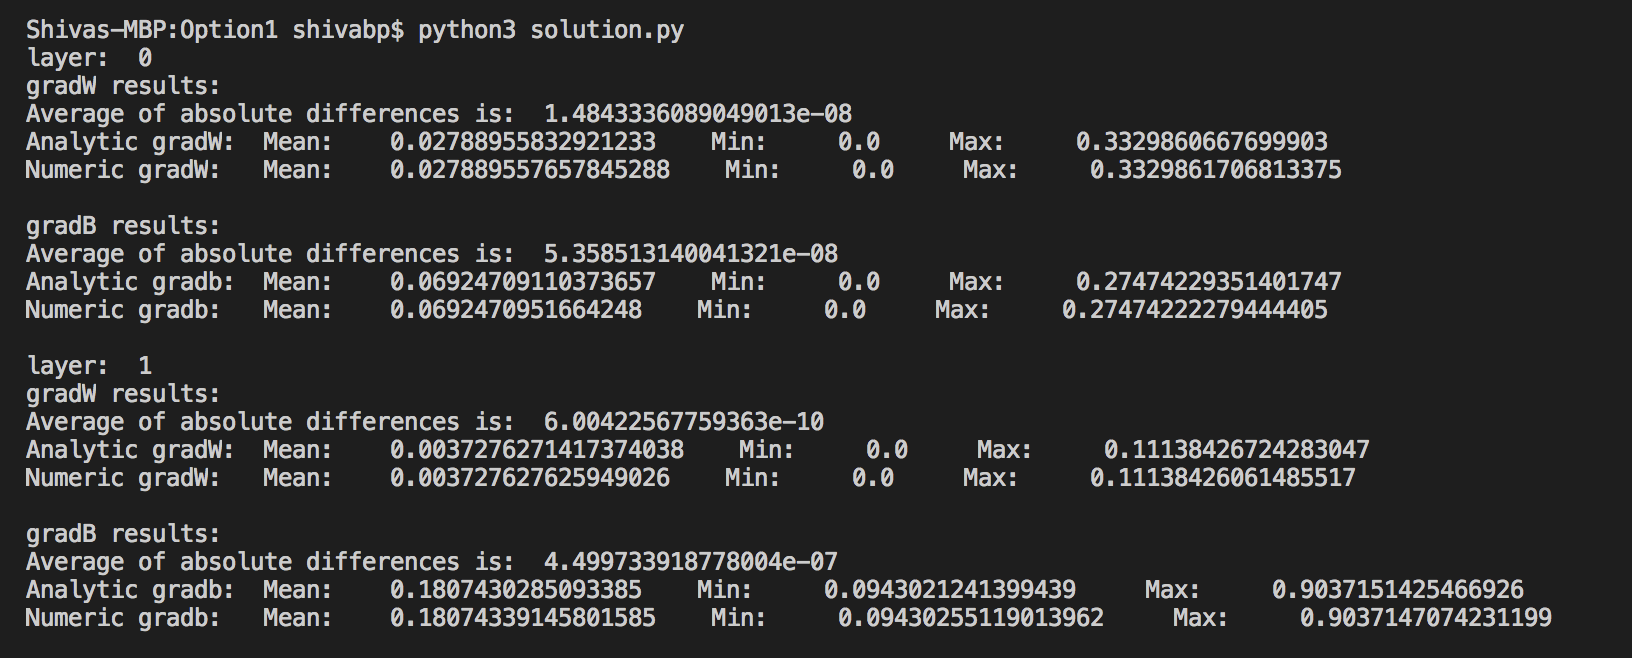
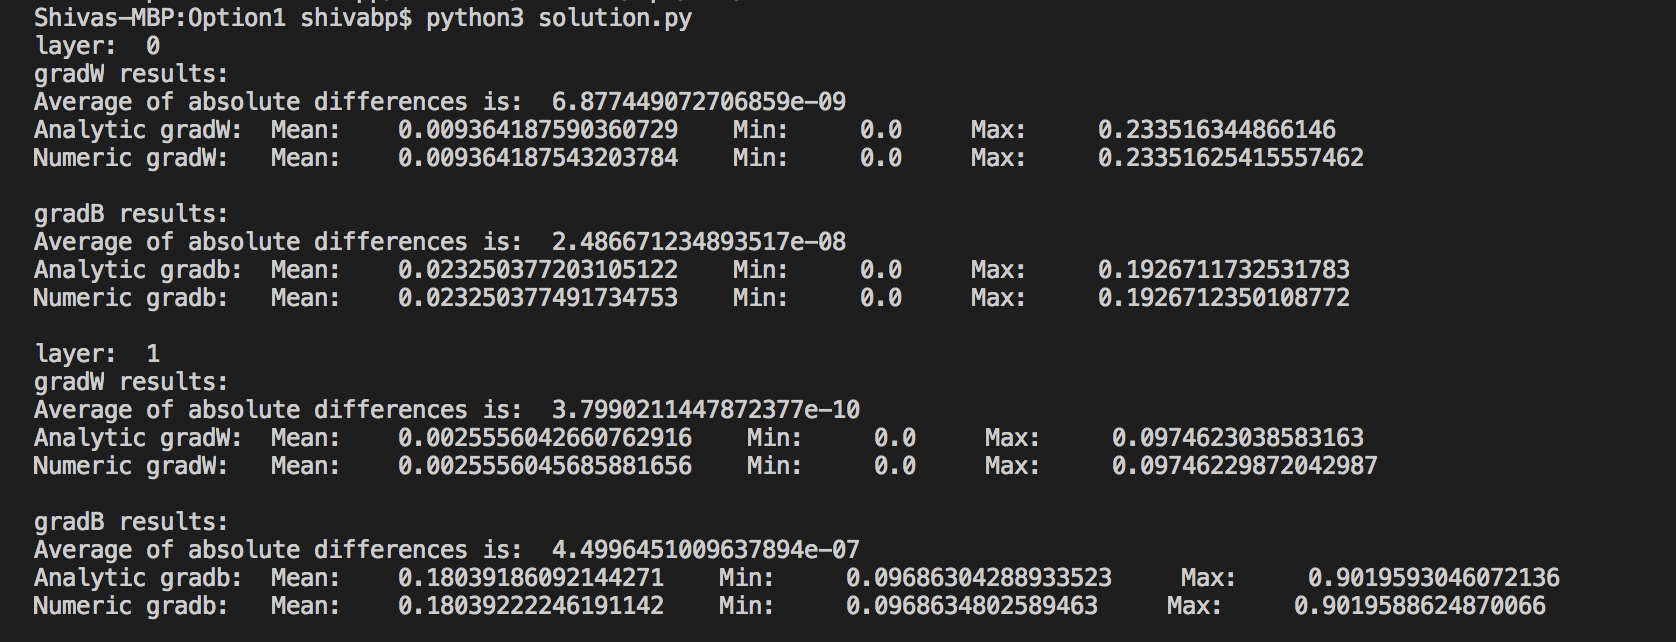
gradients fixed

diff --git a/Lab 3/Option1/solution.py b/Lab 3/Option1/solution.py
@@ -16,7 +16,7 @@ eta_max = 1e-1
 lamda = 0
 n_batch = 100
 n_cycles = 3
-n_layers = 3
+n_layers = 4
 
 def readData(fileName):
     path = "/Users/shivabp/Desktop/DD2424/Labs/Lab 3/Option1/cifar-10-batches-py/" + fileName
@@ -51,10 +51,9 @@ def init():
 def initParams():
     Ws = [np.random.normal(mu, sigma1, (m , d))]
     bs = [np.zeros((m , 1))]
-    layers = [50 , 50, k]
-    for layer in range(n_layers-1):   
-        W = np.random.normal(mu, sigma2, (layers[layer] ,  Ws[layer-1].shape[0] ))
-        b = np.zeros((layers[layer] , 1))
+    for layer in range(1, n_layers):   
+        W = np.random.normal(mu, sigma2, (k ,  Ws[layer-1].shape[0] ))
+        b = np.zeros((k  , 1))
         Ws.append(W)
         bs.append(b)
     return Ws , bs
@@ -268,6 +267,6 @@ if __name__ == '__main__':
     #run()
     '''
     To do:
-    - check gradients
-    - fix mini batch
+    - Exercise 2
+    - Exercise 3
     '''
